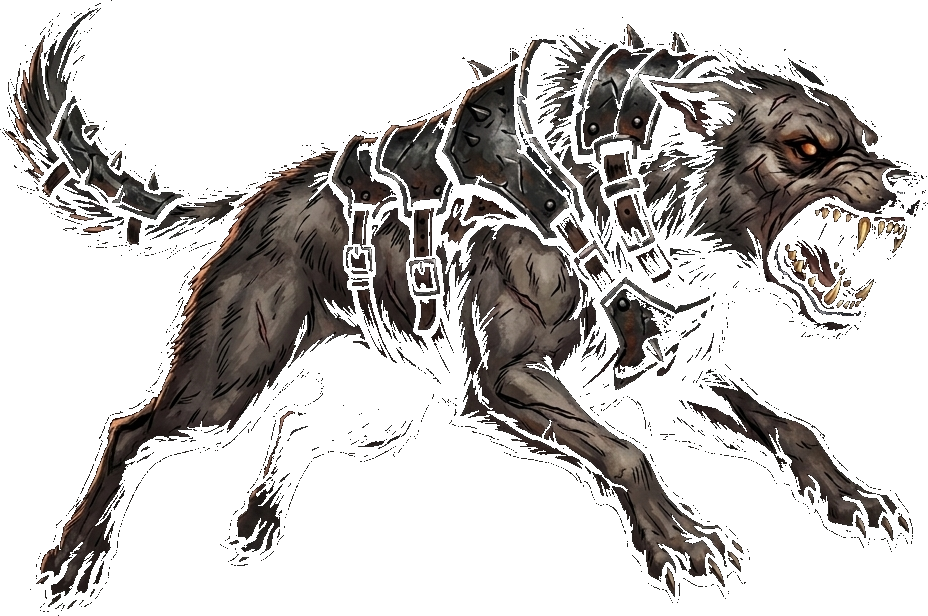
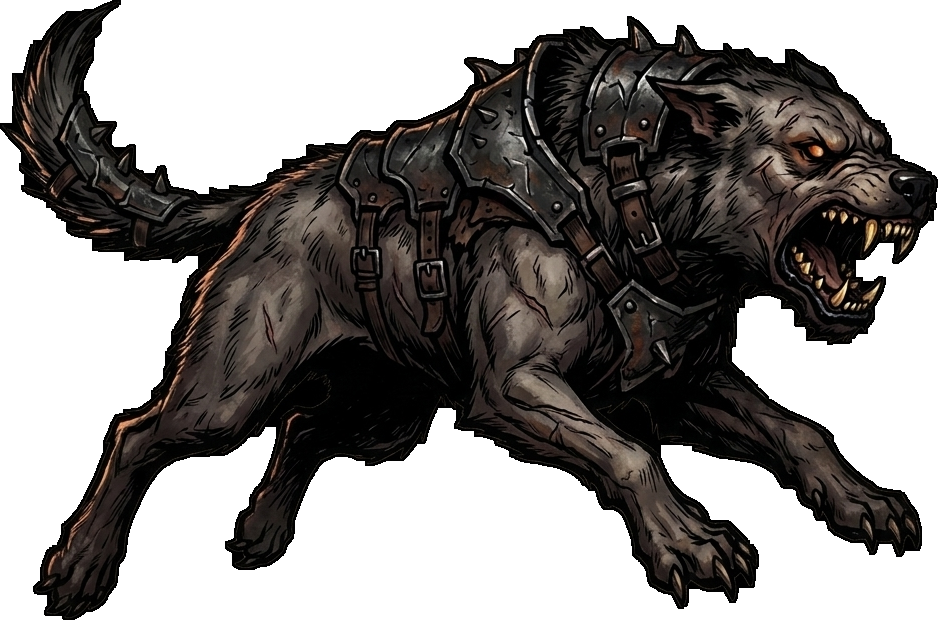
Mirror unit sprites automatically by team side and refine painterly sprite silhouettes

diff --git a/lib/features/combat_spatial/spatial_battle_screen.dart b/lib/features/combat_spatial/spatial_battle_screen.dart
@@ -669,6 +669,27 @@ class _SpatialBattleScreenState extends State<SpatialBattleScreen> with TickerPr
     return Offset(screenX, screenY);
   }
 
+  bool _isNativelyLeftFacingSprite(String assetPath) {
+    final p = assetPath.toLowerCase();
+    return p.contains('blood_initiate') ||
+        p.contains('grave_ghoul') ||
+        p.contains('flayed_butcher') ||
+        p.contains('ashfire_skirmisher') ||
+        p.contains('pyre_sentry_arbalest') ||
+        p.contains('sanguine_flayer') ||
+        p.contains('tombstone sentinel') ||
+        p.contains('magma_golem') ||
+        p.contains('gorgoroth');
+  }
+
+  bool _shouldMirrorUnitSprite(CombatUnitState unit) {
+    // Ash Sculptor is always on the player side and natively faces right
+    if (unit.isAshSculptor || unit.id == 'ash_sculptor') return false;
+    final bool nativelyLeft = _isNativelyLeftFacingSprite(unit.assetPath);
+    // Player units (left side) face right (+X); Enemy units (right side) face left (-X).
+    return unit.isPlayer ? nativelyLeft : !nativelyLeft;
+  }
+
   int _hitStopRemainingMs = 0;
 
   void _triggerHitStop({int durationMs = 70}) {
@@ -6930,9 +6951,11 @@ class _SpatialBattleScreenState extends State<SpatialBattleScreen> with TickerPr
                       alignment: Alignment.bottomCenter,
                       clipBehavior: Clip.none,
                       children: [
-                        // Main Character Sprite (with Stone Petrification / Hit-Flash color filter)
+                        // Main Character Sprite (with side-aware facing mirror + Stone Petrification / Hit-Flash color filter)
                         Positioned.fill(
-                          child: ColorFiltered(
+                          child: Transform.flip(
+                            flipX: _shouldMirrorUnitSprite(unit),
+                            child: ColorFiltered(
                           colorFilter: visuallyDowned
                               ? const ColorFilter.matrix(<double>[
                                   0.2126, 0.7152, 0.0722, 0, 10,
@@ -7160,6 +7183,7 @@ class _SpatialBattleScreenState extends State<SpatialBattleScreen> with TickerPr
                                       size: isBoss ? 48 : 36,
                                     ),
                                   ),
+                            ),
                           ),
                         ),
 
